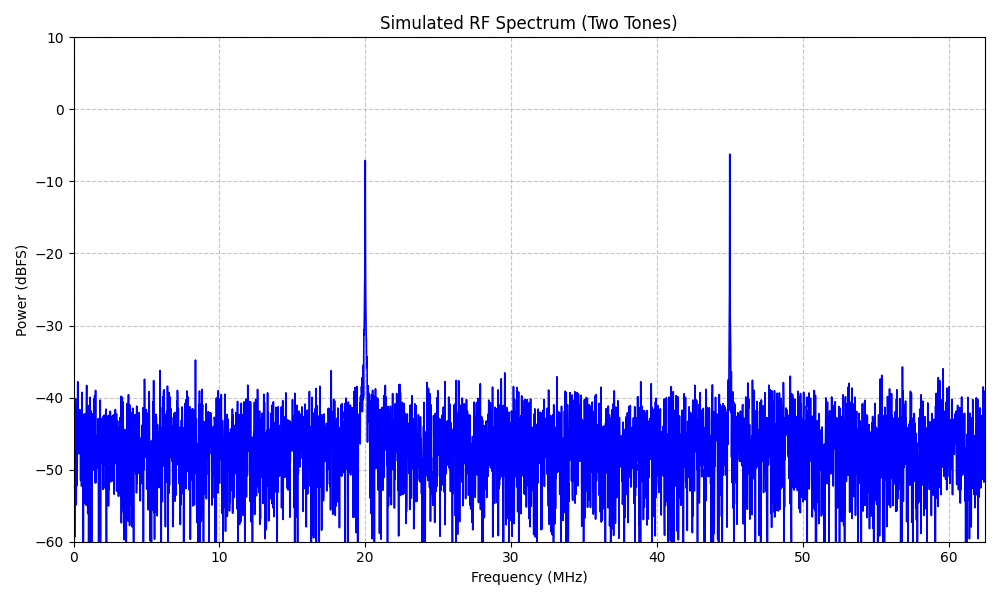
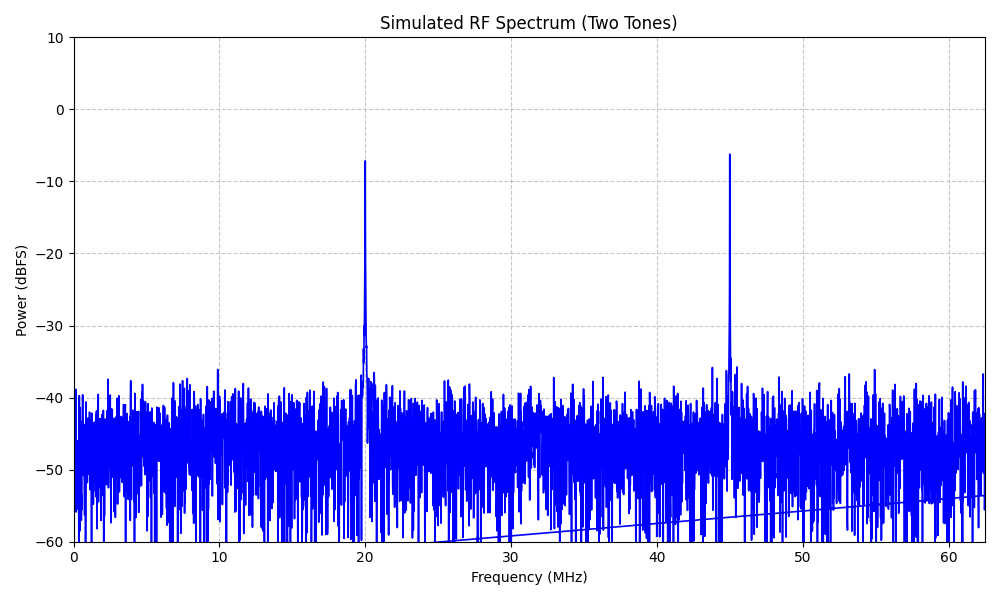
new pplot 2

Changed region(s): [[0.062, 0.57, 0.992, 0.9]]

diff --git a/rf-spectrum-gen/fft-two-tone-125bandwidth.py b/rf-spectrum-gen/fft-two-tone-125bandwidth.py
@@ -32,8 +32,8 @@ freqs = np.fft.fftfreq(N, d=1/fs)
 # Shift zero-frequency to the center if you want a baseband representation, 
 # or just plot positive frequencies for real-valued signals.
 # For simplicity, we'll plot the positive half (up to Nyquist: 62.5 MHz).
-freqs_positive = freqs[:N//2] / 1e6 # in MHz
-magnitude_positive = magnitude[:N//2]
+freqs_positive = freqs / 1e6 # in MHz
+magnitude_positive = magnitude
 
 # --- Plot the RF Spectrum ---
 plt.figure(figsize=(10, 6))